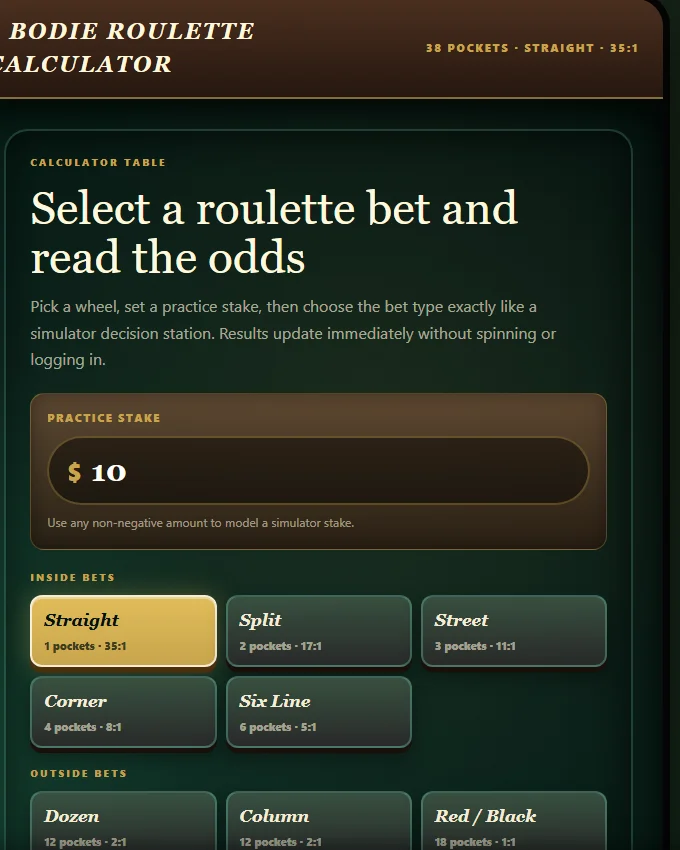
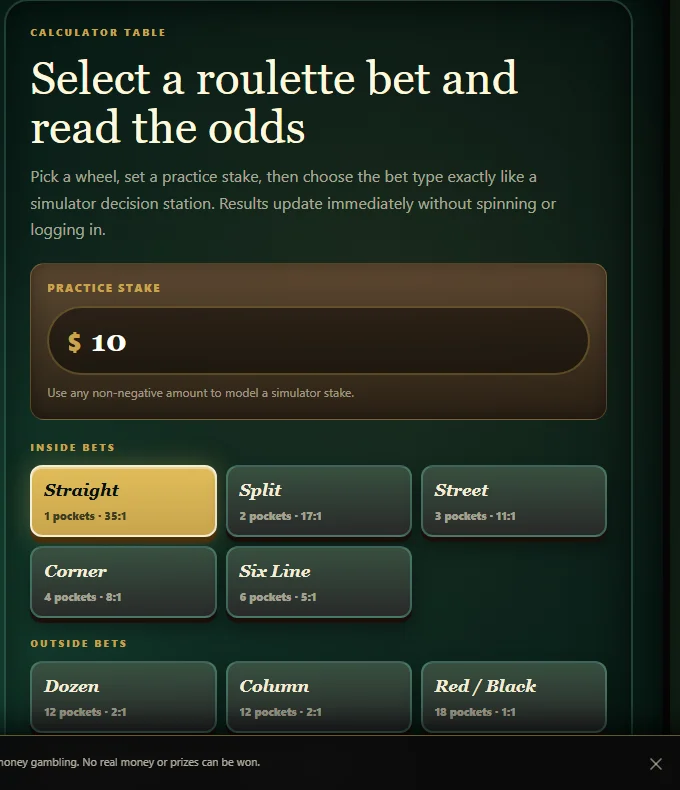
New project added

diff --git a/src/data/junkoProject.js b/src/data/junkoProject.js
@@ -37,7 +37,7 @@ export const junkoProject = {
   },
   showcase: [
     { id: 'simulator', label: 'Simulator guide', title: 'Give the experience some context.', image: image('simulator'), width: 1600, height: 1000, alt: 'Public roulette simulator guide with wheel modes and virtual-chip practice information', text: 'A dedicated guide explains the virtual-chip experience and routes visitors toward American and European wheel information. It separates public learning content from account-based simulator access.' },
-    { id: 'calculator', label: 'Odds calculator', title: 'Make the information interactive.', image: image('calculator'), width: 680, height: 850, alt: 'Cropped public calculator controls showing a practice-stake field and bet-type selections', text: 'This close-up isolates the public calculator’s practice-stake and bet-type controls. The image is cropped from a real desktop capture; it is not a working calculator or a prediction of a future spin.' },
+    { id: 'calculator', label: 'Odds calculator', title: 'Make the information interactive.', image: image('calculator'), width: 680, height: 790, alt: 'Cropped public calculator controls showing a practice-stake field and bet-type selections', text: 'This close-up isolates the public calculator’s practice-stake and bet-type controls. The image is cropped from a real desktop capture; it is not a working calculator or a prediction of a future spin.' },
     { id: 'learning', label: 'Learning library', title: 'Keep the next question within reach.', image: image('learning'), width: 1600, height: 1000, alt: 'Junko Bodie Roulette educational article library', text: 'A separate article library supports the tool experience with introductory and topic-specific reading. Shared navigation keeps the content connected to the rest of the platform.' },
   ],
   faqs: [

diff --git a/docs/content/junko-bodie-roulette.md b/docs/content/junko-bodie-roulette.md
@@ -12,7 +12,7 @@ Added 6 November 2026 at `/projects/junko-bodie-roulette`. HanovaDevs supplied t
 
 ## Assets
 
-`scripts/assets/capture-junko-project.mjs` captures only public GET pages. Original PNGs live in `assets/source/projects/junko-bodie-roulette/`; optimized WebP captures live in `public/case-studies/`. The project card is 800px wide; full desktop captures are 1600×1000. The cover uses the public learning library, not the homepage. The calculator close-up is a labelled 680×850 crop of its controls, excluding a wheel that remained loading in some captures. An earlier 390×844 mobile capture remains in the source archive, but is not shown in the gallery or claimed as a tested private simulator session.
+`scripts/assets/capture-junko-project.mjs` captures only public GET pages. Original PNGs live in `assets/source/projects/junko-bodie-roulette/`; optimized WebP captures live in `public/case-studies/`. The project card is 800px wide; full desktop captures are 1600×1000. The cover uses the public learning library, not the homepage. The calculator close-up is a labelled 680×790 crop of its controls, excluding a wheel that remained loading in some captures. An earlier 390×844 mobile capture remains in the source archive, but is not shown in the gallery or claimed as a tested private simulator session.
 
 Chromium encountered intermittent SSL protocol errors loading the site's assets; the homepage hero and calculator wheel did not render reliably. Static public learning/guide content and the calculator controls rendered successfully, so those are used in the portfolio instead. An attempted public-asset network replay did not resolve the homepage rendering and was removed. The screenshot script does not alter the website's markup or design, and rejects an unstyled page rather than publishing it. Final assets were selected from visually checked captures; partial failed recaptures were not treated as proof that every external component worked.
 
